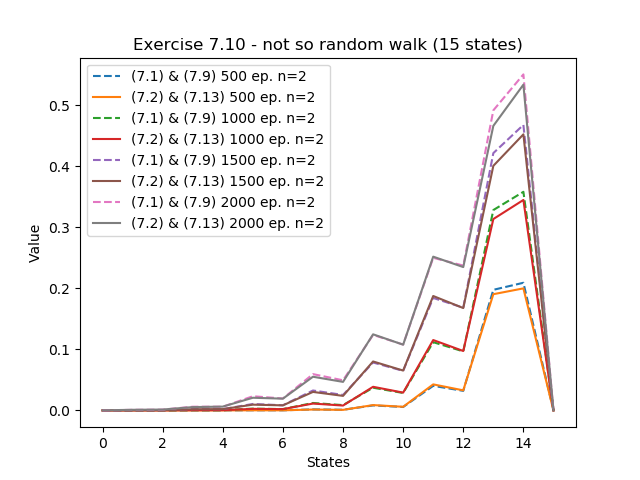
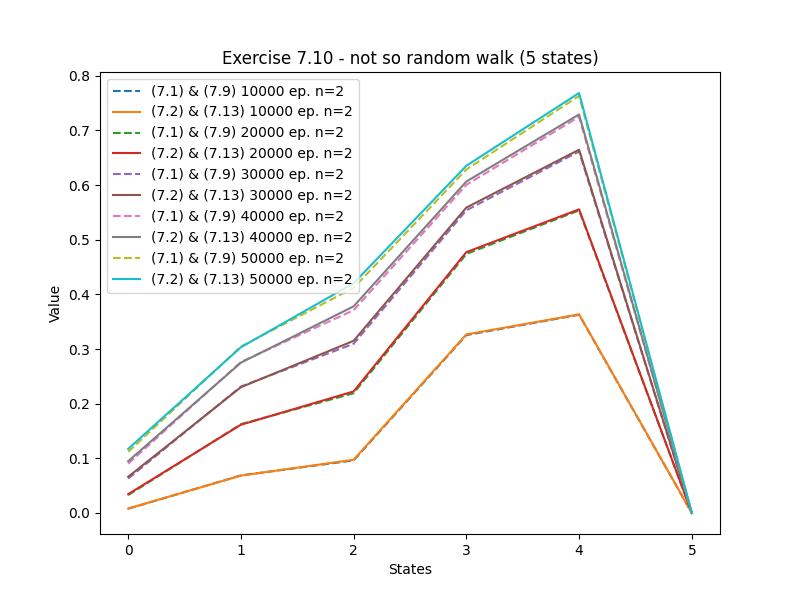
OK now i'm not changing ex7.10 anymore

diff --git a/chapter7/figures.py b/chapter7/figures.py
@@ -26,11 +26,11 @@ SECTION_7_3_MAX_N = 8
 EX_7_7_N_EP_TRAIN = 1000
 EX_7_7_STEPSIZE = 0.001
 EX_7_7_MAX_N = 8
-EX_7_10_N_EP_TRAIN = 1000
+EX_7_10_N_EP_TRAIN = 10000
 EX_7_10_STEPSIZE = 0.0001
 EX_7_10_MAX_N = 2
-EX_7_10_N_BATCHES = 10
-EX_7_10_N_STATES = 15
+EX_7_10_N_BATCHES = 5
+EX_7_10_N_STATES = 5
 
 def run_random_walks(ax, ex_7_2=False, show=True, extra_label='', dashed=False, n_runs=FIG_7_2_N_RUNS, n_states=FIG_7_2_N_STATES, left_rew=-1, true_vals=None, V_init=None):
   n_l = [2 ** k for k in range(int(np.log(FIG_7_2_MAX_N) / np.log(2)) + 1)]

diff --git a/chapter7/off_pol_nstep_td.py b/chapter7/off_pol_nstep_td.py
@@ -23,7 +23,7 @@ class OffPolnStepTD(OffPolnStepSarsa):
   def simple_update(self, s, ro, tau, T):
     G = self.n_step_return(tau, T)
     is_r = self.simple_ro(ro, tau, tau + self.n - 1, T)
-    self.V[s] += self.step_size * (G - self.V[s])
+    self.V[s] += self.step_size * is_r * (G - self.V[s])
 
   def nstep_return_is(self, ro, tau, T):
     n, S, V, R, g = self.n, self.S, self.V, self.R, self.gamma
